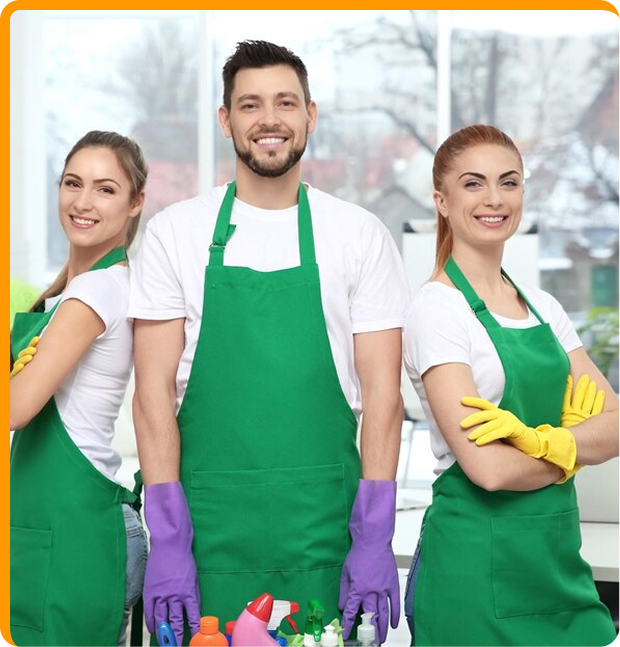
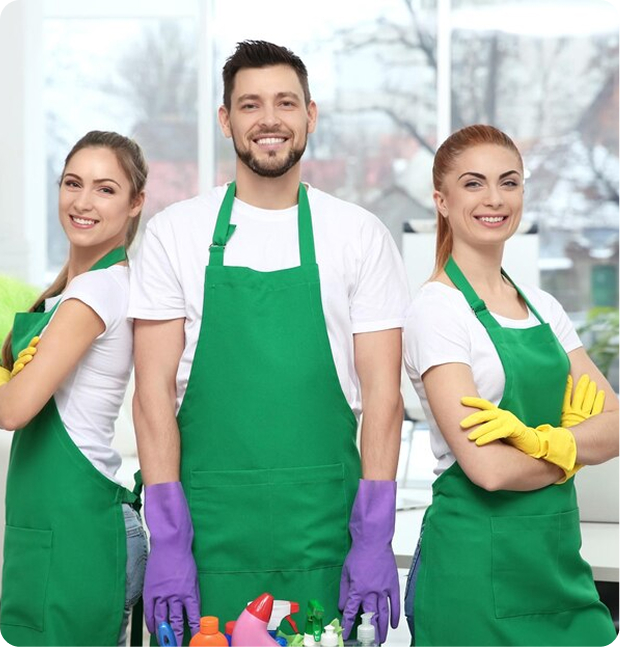
About page changed btns

Changed region(s): [[0.0, 0.0, 1.0, 1.0]]

diff --git a/src/components/WelcomeToOurCompany.tsx b/src/components/WelcomeToOurCompany.tsx
@@ -1,6 +1,7 @@
 import React from "react";
 import mainImage from "../assets/images/WelcomeToOurCompany1.jpg";
 import secondaryImage from "../assets/images/WelcomeToOurCompany2.jpg";
+import Gradient_Btn from "./Gradient_Btn";
 
 const WelcomeToOurCompany: React.FC = () => {
   return (
@@ -9,17 +10,37 @@ const WelcomeToOurCompany: React.FC = () => {
         {/* Image Section */}
         <div className="relative flex-1">
           <div className="relative">
-            {/* Main image with orange border */}
-            <div className="border-t-4 border-l-4 border-orange-500 pt-4 pl-4 rounded-tl-lg">
-              <img
-                src={mainImage}
-                alt="Cleaning professionals team"
-                className="w-full rounded-lg shadow-md"
-              />
+            {/* Main image with gradient border */}
+            <div className="relative">
+              {/* The actual image */}
+              <div className="relative" style={{ marginTop: "4px", marginLeft: "4px" }}>
+                <img
+                  src={mainImage}
+                  alt="Cleaning professionals team"
+                  className="w-full rounded-lg shadow-md"
+                />
+                
+                {/* Gradient borders - positioned absolutely to be directly on the image */}
+                <div 
+                  className="absolute top-0 left-0 h-1 w-full rounded-tl-lg rounded-tr-lg"
+                  style={{ 
+                    background: "linear-gradient(150deg, #8C6D9E, #F1653D, #FAEA8F)",
+                    transform: "translateY(-100%)"
+                  }}
+                ></div>
+                
+                <div 
+                  className="absolute top-0 left-0 w-1 h-full rounded-tl-lg rounded-bl-lg"
+                  style={{ 
+                    background: "linear-gradient(150deg, #8C6D9E, #F1653D, #FAEA8F)",
+                    transform: "translateX(-100%)"
+                  }}
+                ></div>
+              </div>
             </div>
 
             {/* Overlapping image */}
-            <div className="absolute bottom-[-40px] right-[-40px] w-1/3">
+            <div className="absolute bottom-[-40px] right-[-40px] w-1/3 z-10" >
               <img
                 src={secondaryImage}
                 alt="Cleaning professional at work"
@@ -71,9 +92,7 @@ const WelcomeToOurCompany: React.FC = () => {
           </div>
 
           {/* CTA Button */}
-          <button className="bg-orange-500 hover:bg-orange-600 text-white font-medium py-3 px-6 rounded-md transition-colors">
-            Book Now
-          </button>
+          <Gradient_Btn text="Book Now" />
         </div>
       </div>
     </div>

diff --git a/src/components/AboutUs/FirstSection.tsx b/src/components/AboutUs/FirstSection.tsx
@@ -1,5 +1,6 @@
 import React from "react";
 import bottleImage from "../../assets/images/bottle.jpg";
+import Gradient_Btn from "../Gradient_Btn";
 
 const FirstSection: React.FC = () => {
   return (
@@ -54,9 +55,7 @@ const FirstSection: React.FC = () => {
             your reliable partner, with more than 15 years of experience, for
             high-quality cleaning services in various professional environments.
           </p>
-          <button className="bg-orange-500 hover:bg-orange-600 text-white font-medium py-3 px-6 rounded-md transition-colors">
-            Get a quote
-          </button>
+          <Gradient_Btn text="Get a quote" />
         </div>
       </div>
     </div>
